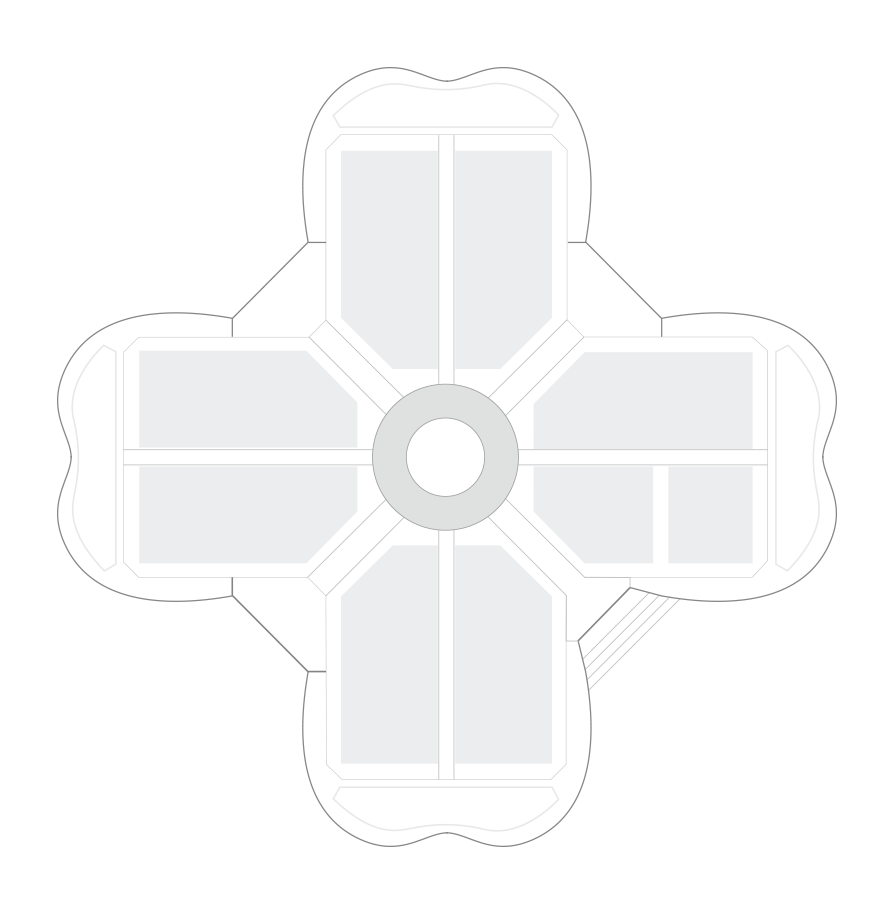
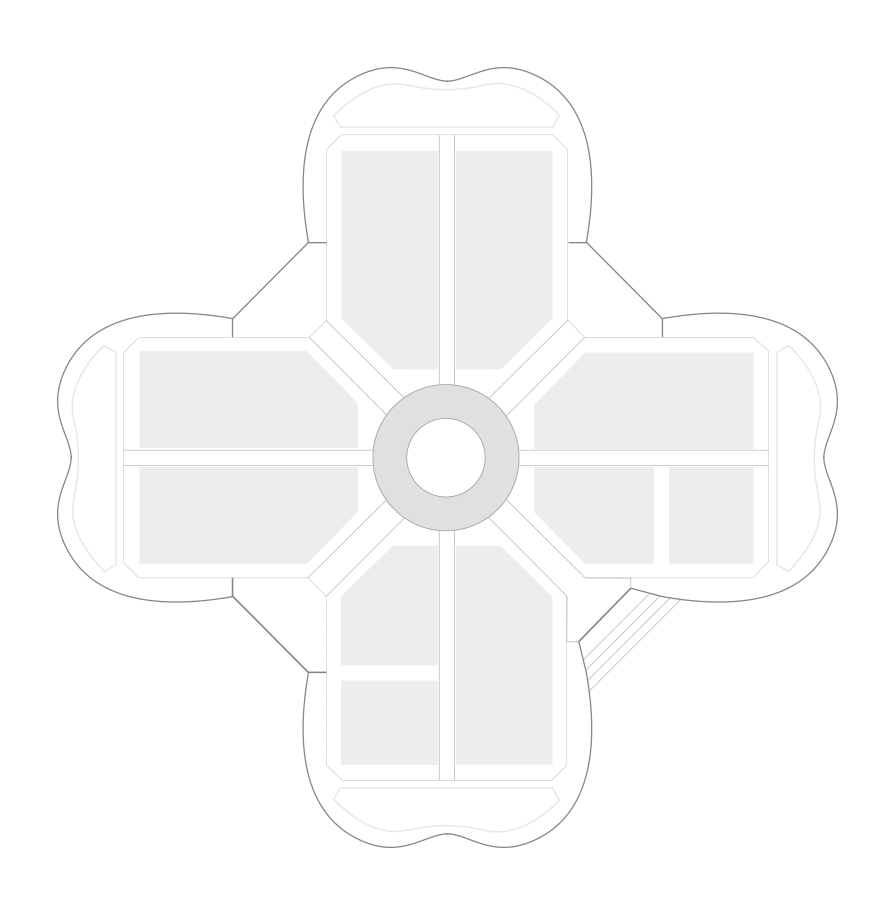
모바일 맵작업 중...

diff --git a/assets/css/main.css b/assets/css/main.css
@@ -83,7 +83,7 @@ a {
   .section.location-guide .section-content {
     position: relative;
     width: 100%;
-    height: 667px;
+    height: 741px;
     padding-left: 100px;
     border: 1px solid #ccc;
     background-color: #fff; }
@@ -178,7 +178,7 @@ a {
       position: relative;
       width: 100%;
       height: 100%;
-      padding: 55px; }
+      padding-top: 95px; }
       .section.location-guide .section-content .location-area .map {
         position: relative;
         width: 555px;
@@ -205,6 +205,9 @@ a {
             left: 58px; }
           .section.location-guide .section-content .location-area .map a.area-5 {
             bottom: 59px;
+            left: 202px; }
+          .section.location-guide .section-content .location-area .map a.area-5-2 {
+            bottom: 130px;
             left: 202px; }
           .section.location-guide .section-content .location-area .map a.area-6 {
             bottom: 59px;

diff --git a/assets/css/main.scss b/assets/css/main.scss
@@ -22,7 +22,7 @@
         .section-content {
             position: relative;
             width: 100%;
-            height: 667px;
+            height: 741px;
             padding-left: 100px;
             border: 1px solid #ccc;
             background-color: #fff;
@@ -145,7 +145,7 @@
                 position: relative;
                 width: 100%;
                 height: 100%;
-                padding: 55px;
+                padding-top: 95px;
                 .map {
                     position: relative;
                     width: 555px;
@@ -176,6 +176,10 @@
                         }
                         &.area-5 {
                             bottom: 59px;
+                            left: 202px;
+                        }
+						&.area-5-2 {
+							bottom: 130px;
                             left: 202px;
                         }
                         &.area-6 {

diff --git a/inc/eng/location_guide.php b/inc/eng/location_guide.php
@@ -38,6 +38,12 @@
                 </li>
                 <li>
                     <a href="#">
+                        <h3>5.2H</h3>
+                        <p class="summary">韩国宣传馆</p>
+                    </a>
+                </li>
+                <li>
+                    <a href="#">
                         <h3>6.1H</h3>
                         <p class="summary">服装服饰及日用消费品展区</p>
                     </a>
@@ -76,7 +82,10 @@
                         <img src="/assets/images/main/eng/img_area04.png" alt="">
                     </a>
                     <a href="#" class="area-5">
-                        <img src="/assets/images/main/eng/img_area05.png" alt="">
+                        <img src="/assets/images/main/eng/img_area05_01.png" alt="">
+                    </a>
+                    <a href="#" class="area-5-2">
+                        <img src="/assets/images/main/eng/img_area05_02.png" alt="">
                     </a>
                     <a href="#" class="area-6">
                         <img src="/assets/images/main/eng/img_area06.png" alt="">

diff --git a/inc/chn/location_guide.php b/inc/chn/location_guide.php
@@ -38,6 +38,12 @@
                 </li>
                 <li>
                     <a href="#">
+                        <h3>5.2H</h3>
+                        <p class="summary">韩国宣传馆</p>
+                    </a>
+                </li>
+                <li>
+                    <a href="#">
                         <h3>6.1H</h3>
                         <p class="summary">服装服饰及日用消费品展区</p>
                     </a>
@@ -76,7 +82,10 @@
                         <img src="/assets/images/main/img_area04.png" alt="">
                     </a>
                     <a href="#" class="area-5">
-                        <img src="/assets/images/main/img_area05.png" alt="">
+                        <img src="/assets/images/main/img_area05_01.png" alt="">
+                    </a>
+                    <a href="#" class="area-5-2">
+                        <img src="/assets/images/main/img_area05_02.png" alt="">
                     </a>
                     <a href="#" class="area-6">
                         <img src="/assets/images/main/img_area06.png" alt="">

diff --git a/mobile/inc/chn/service_trade.php b/mobile/inc/chn/service_trade.php
@@ -15,7 +15,8 @@
                         <a class="dropdown-item" href="#">2H 汽车展区</a>
                         <a class="dropdown-item" href="#">3H 智能及高端装备展区</a>
                         <a class="dropdown-item" href="#">4.1H 智能及高端装备展区</a>
-                        <a class="dropdown-item" href="#">5.1H 消费及电子家电展区</a>
+                        <a class="dropdown-item" href="#">5.1H 韩国宣传馆</a>
+                        <a class="dropdown-item" href="#">5.2H 消费及电子家电展区</a>
                         <a class="dropdown-item" href="#">6.1H 服装服饰及日用消费品展区</a>
                         <a class="dropdown-item" href="#">7.1H 医疗器械及医药保健展区</a>
                         <a class="dropdown-item" href="#">7.2H 食品及农产品展区</a>

diff --git a/mobile/inc/eng/service_trade.php b/mobile/inc/eng/service_trade.php
@@ -15,7 +15,8 @@
                         <a class="dropdown-item" href="#">2H 汽车展区</a>
                         <a class="dropdown-item" href="#">3H 智能及高端装备展区</a>
                         <a class="dropdown-item" href="#">4.1H 智能及高端装备展区</a>
-                        <a class="dropdown-item" href="#">5.1H 消费及电子家电展区</a>
+                        <a class="dropdown-item" href="#">5.1H 韩国宣传馆</a>
+                        <a class="dropdown-item" href="#">5.2H 消费及电子家电展区</a>
                         <a class="dropdown-item" href="#">6.1H 服装服饰及日用消费品展区</a>
                         <a class="dropdown-item" href="#">7.1H 医疗器械及医药保健展区</a>
                         <a class="dropdown-item" href="#">7.2H 食品及农产品展区</a>
